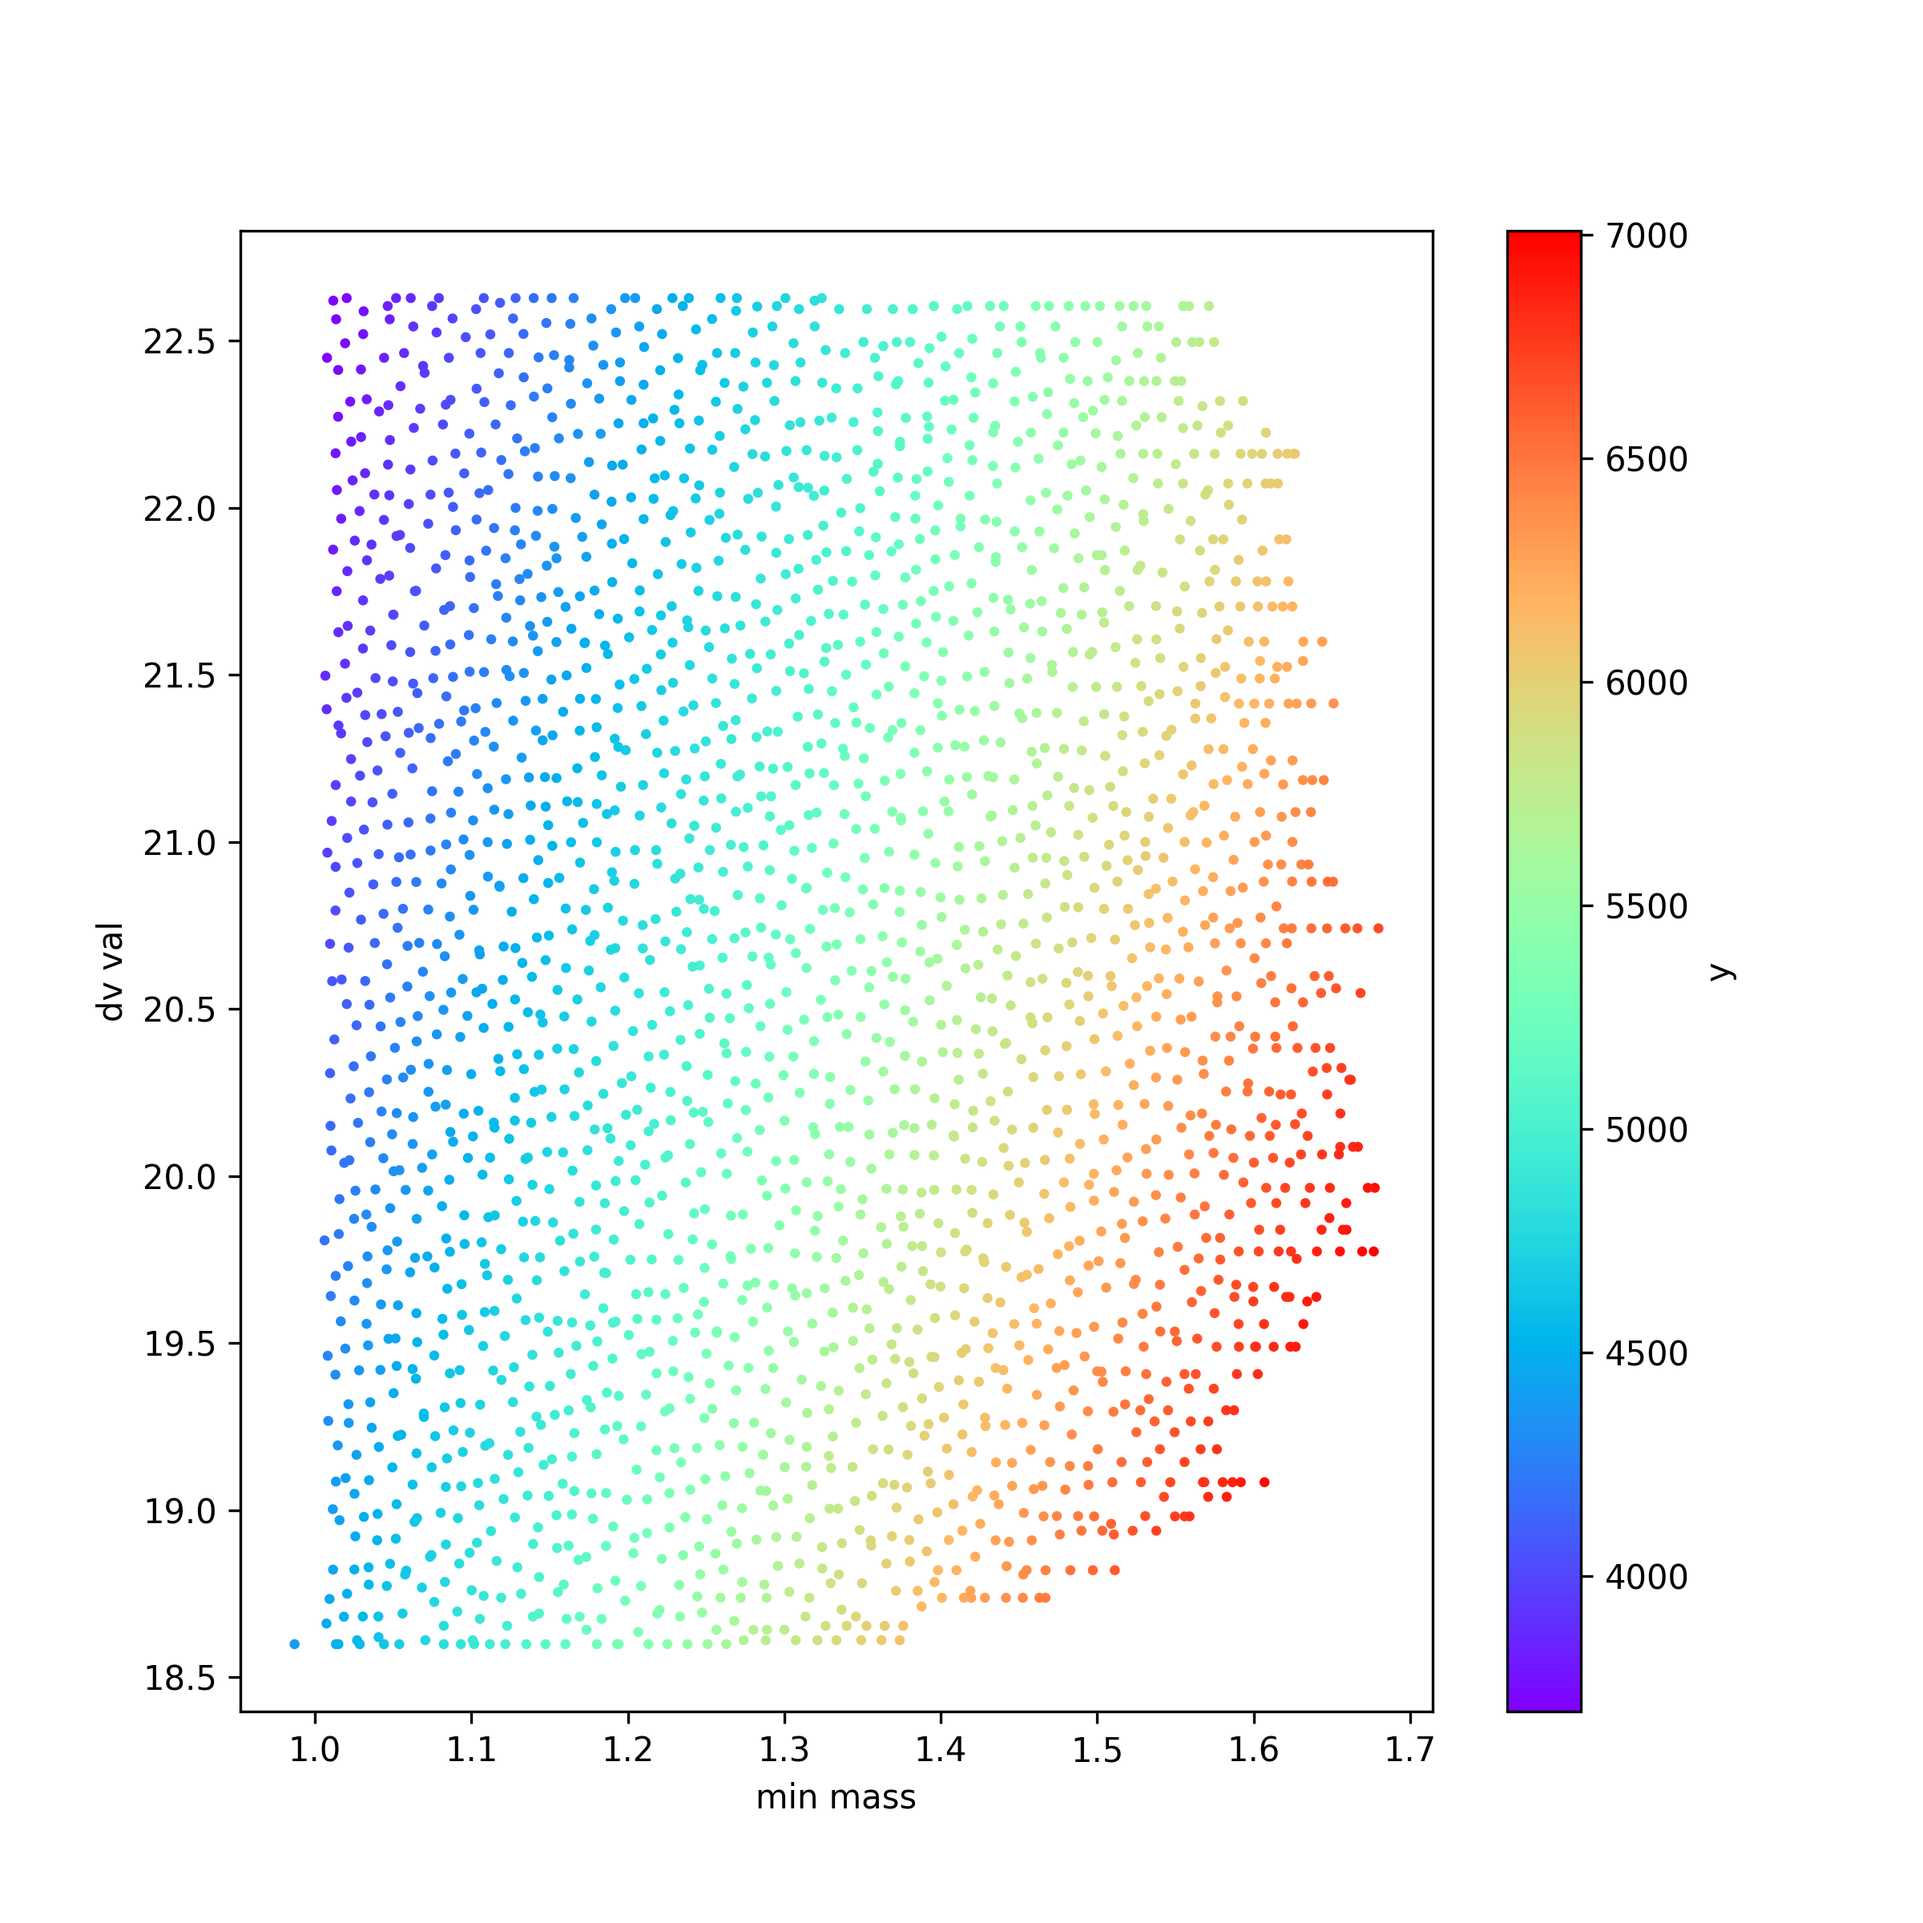
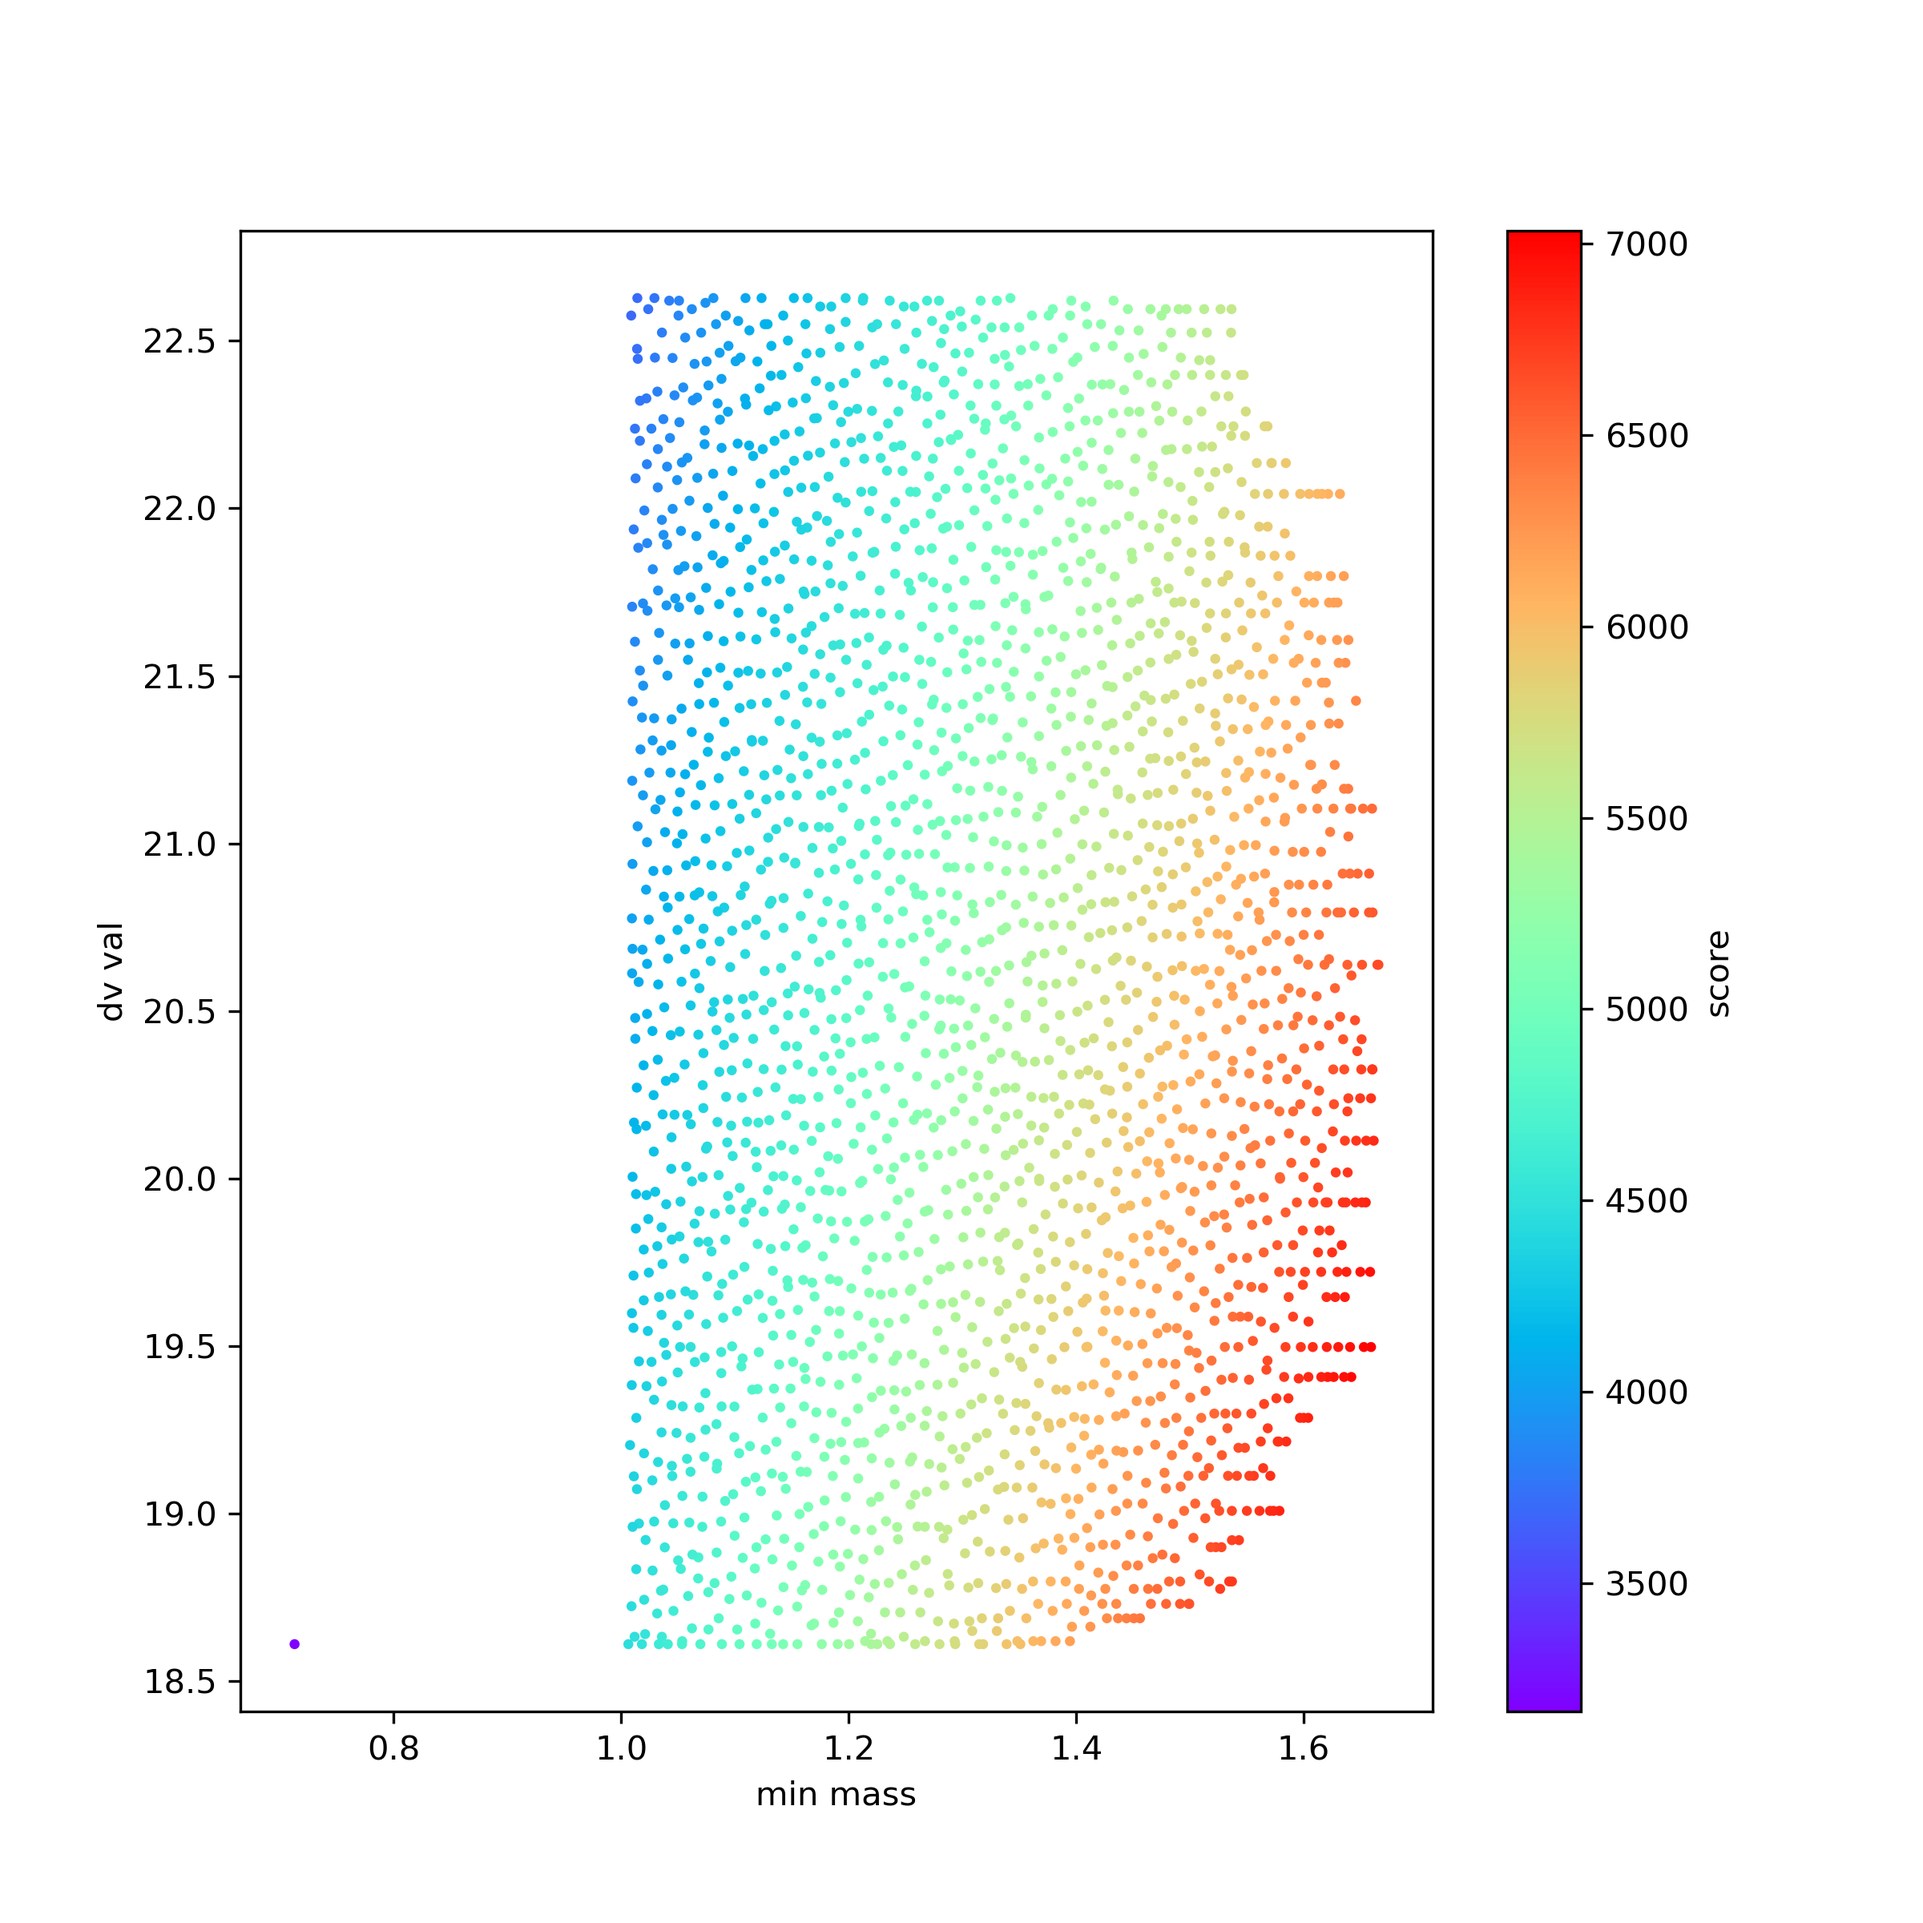
v1.5.7

diff --git a/examples/scheduling.py b/examples/scheduling.py
@@ -176,6 +176,12 @@ class fitness(object): # the objective function
                         ))
         return y, d  
 
+    def score(self, x):     
+        _, slot_mass = select(self.asteroid, self.station, self.trajectory, self.mass, 
+                        self.transfer_start, self.transfer_time, x)
+        sdv = select_dvs(self.trajectory_dv, x) 
+        return score(np.amin(slot_mass), sdv)
+    
 def check_pymoo(dim, fit, lb, ub, is_MO):
 
     from pymoo.core.problem import ElementwiseProblem 
@@ -375,17 +381,18 @@ def nd_optimize():
     niche_num = 10000  
     name = "scheduler_nd"
     arch = None
+    # mapelites.load_archive('scheduler_nd', problem.bounds, problem.qd_bounds, niche_num) 
     opt_params0 = {'solver':'elites', 'popsize':200}
     opt_params1 = {'solver':'BITE_CPP', 'max_evals':1000000, 'stall_criterion':3}
-    archive = diversifier.minimize(
+    arch = diversifier.minimize(
          mapelites.wrapper(problem.qd_fun, 2, interval=100000, save_interval=200000000), 
          problem.bounds, problem.qd_bounds, 
          workers = 32, opt_params=[opt_params0, opt_params1], 
          max_evals=100000000, archive = arch,
          niche_num = niche_num, samples_per_niche = 20)   
-    print('final archive:', archive.info())
-    archive.save(name)
-    plot_archive(archive, problem)
+    print('final archive:', arch.info())
+    arch.save(name)
+    plot_archive(arch, problem)
 
 # utility functions
 
